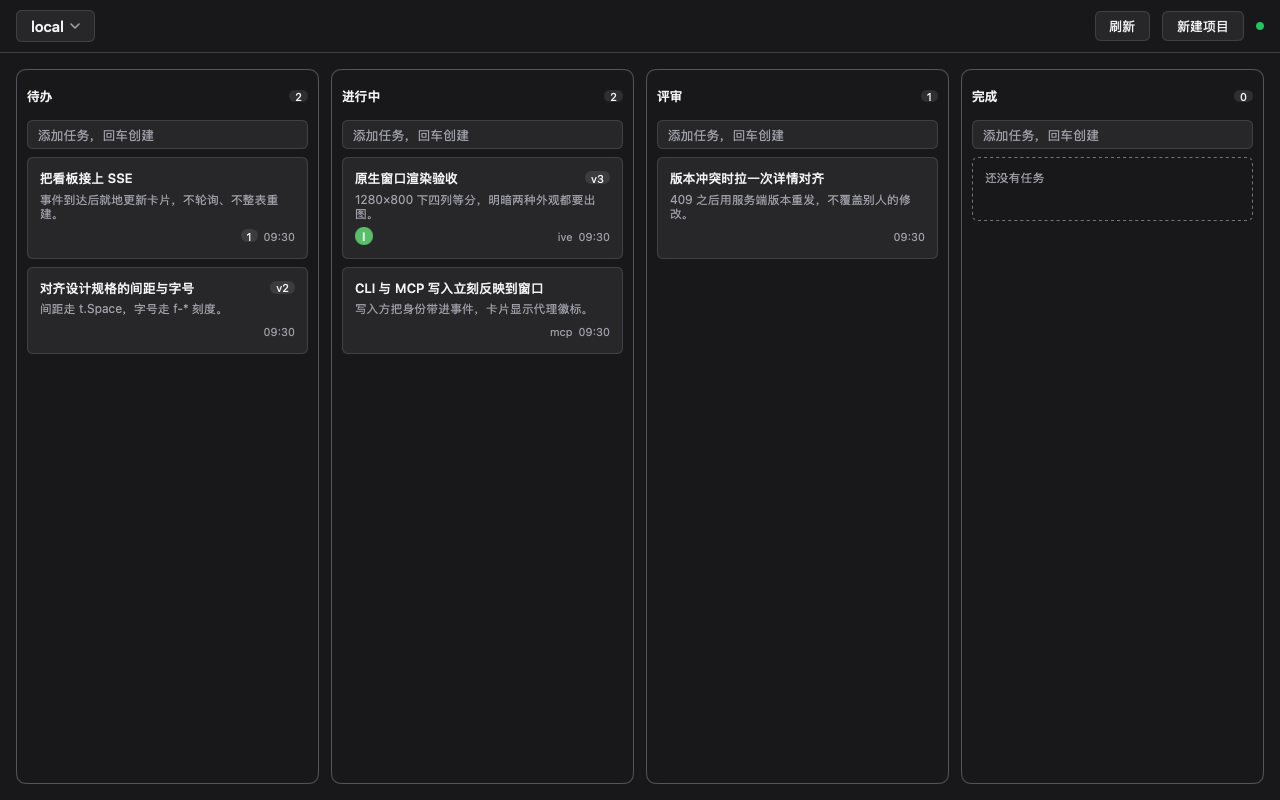
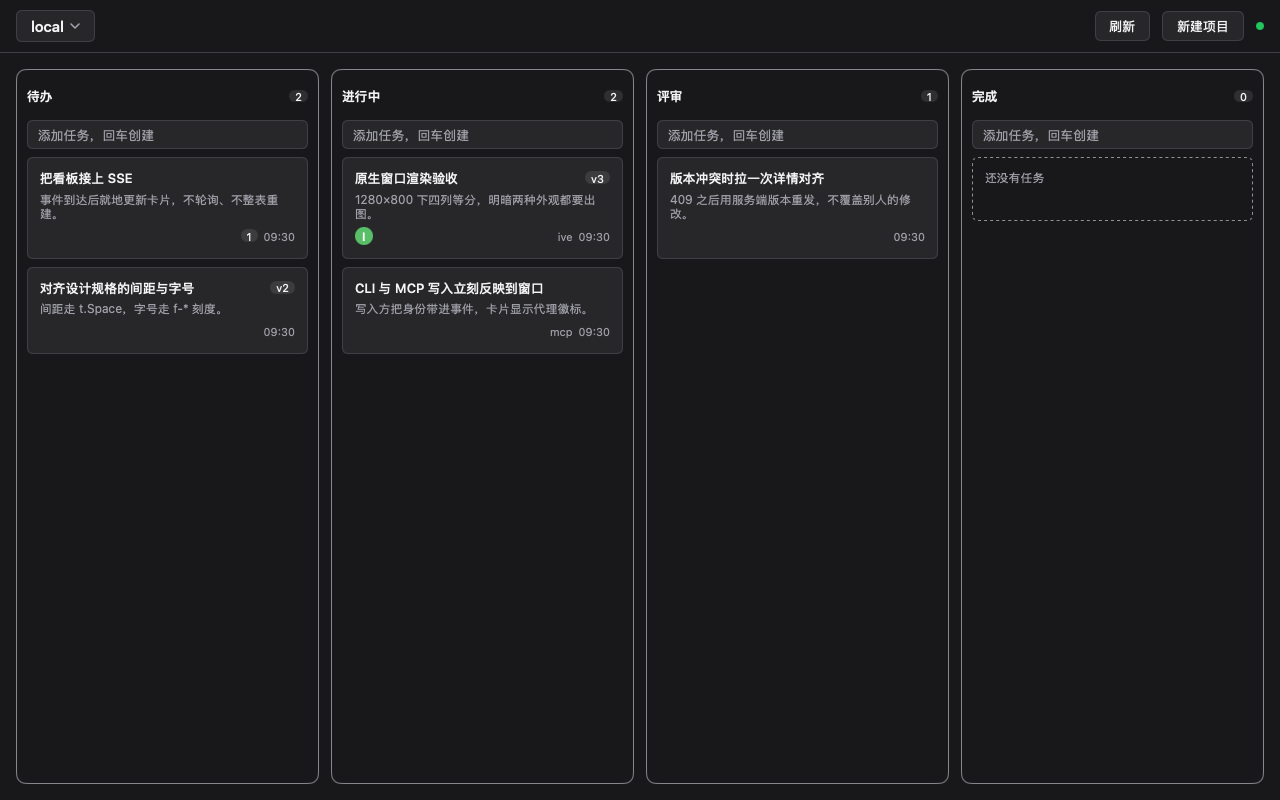
board: raise panel borders to a perceivable 3:1 boundary

diff --git a/cmd/taskboard/view.go b/cmd/taskboard/view.go
@@ -50,12 +50,12 @@ func cardHover(t *ui.Theme) ui.Color {
 // resting border so the edge survives on top of a filled face.
 func hoverBorder(t *ui.Theme) ui.Color { return t.Border.Mix(t.Text, 0.35) }
 
-// panelBorder outlines a column: one step darker than the flat border so
-// the panel reads as a surface, not an accident of tone.
-func panelBorder(t *ui.Theme) ui.Color { return t.Border.Mix(t.Text, 0.12) }
+// panelBorder outlines a column: about 3:1 against its own face in both
+// appearances, the floor for a meaningful non-text boundary.
+func panelBorder(t *ui.Theme) ui.Color { return t.Border.Mix(t.Text, 0.40) }
 
 // dashedBorder outlines an empty column's placeholder, a step deeper still.
-func dashedBorder(t *ui.Theme) ui.Color { return t.Border.Mix(t.Text, 0.3) }
+func dashedBorder(t *ui.Theme) ui.Color { return t.Border.Mix(t.Text, 0.45) }
 
 // typeScale is the design's f-* steps relative to the theme's size.
 func fxs(t *ui.Theme) float32 { return t.FontSize - 2 }

diff --git a/docs/design.md b/docs/design.md
@@ -155,8 +155,8 @@ Box(clickable, key=task.ID, radius t.Radius, border 1 t.Border,
 | 卡片悬停 | `t.SurfaceHover` | `t.SurfaceHover` | **是**：明色卡片为 `Background` 浮在 `Surface` 列面上，悬停须再深一档到 `SurfaceHover`（用 `Surface` 会与列面 1.00:1、卡片塌成洞）；暗色同值 |
 | 卡片按下 | `t.SurfacePressed` | `t.SurfacePressed` | 否 |
 | 描边（卡片静止） | `t.Border` | `t.Border` | 否 |
-| 描边（列面板） | `t.Border.Mix(t.Text, 0.12)` | 同 | 否：`Border` 对白卡仅 1.41:1，列框需要深一档 |
-| 描边（空态虚线） | `t.Border.Mix(t.Text, 0.30)` | 同 | 否 |
+| 描边（列面板） | `t.Border.Mix(t.Text, 0.40)` | 同 | 否：`Border` 对白底仅 1.41:1，列框需到约 3:1 才成为可感知边界 |
+| 描边（空态虚线） | `t.Border.Mix(t.Text, 0.45)` | 同 | 否 |
 | 描边（卡片悬停） | `t.Border.Mix(t.Text, 0.35)` | 同 | 否：悬停面被填充后，仅 0.22 的描边不够区分 |
 | 强调填充（主按钮） | `t.Accent` | `#2563eb` | **是**：暗色主题的 `#3b82f6` 配白字仅 3.68:1，低 AA；应用侧复制主题并把 Accent/AccentHover/AccentPressed 换成 `#2563eb` 系（hover/pressed 用 mygo 的 `Mix` 规则派生），白字 5.17:1。高对比偏好下不改 |
 | 主文字 / 标题 | `t.Text` | `t.Text` | 否 |
